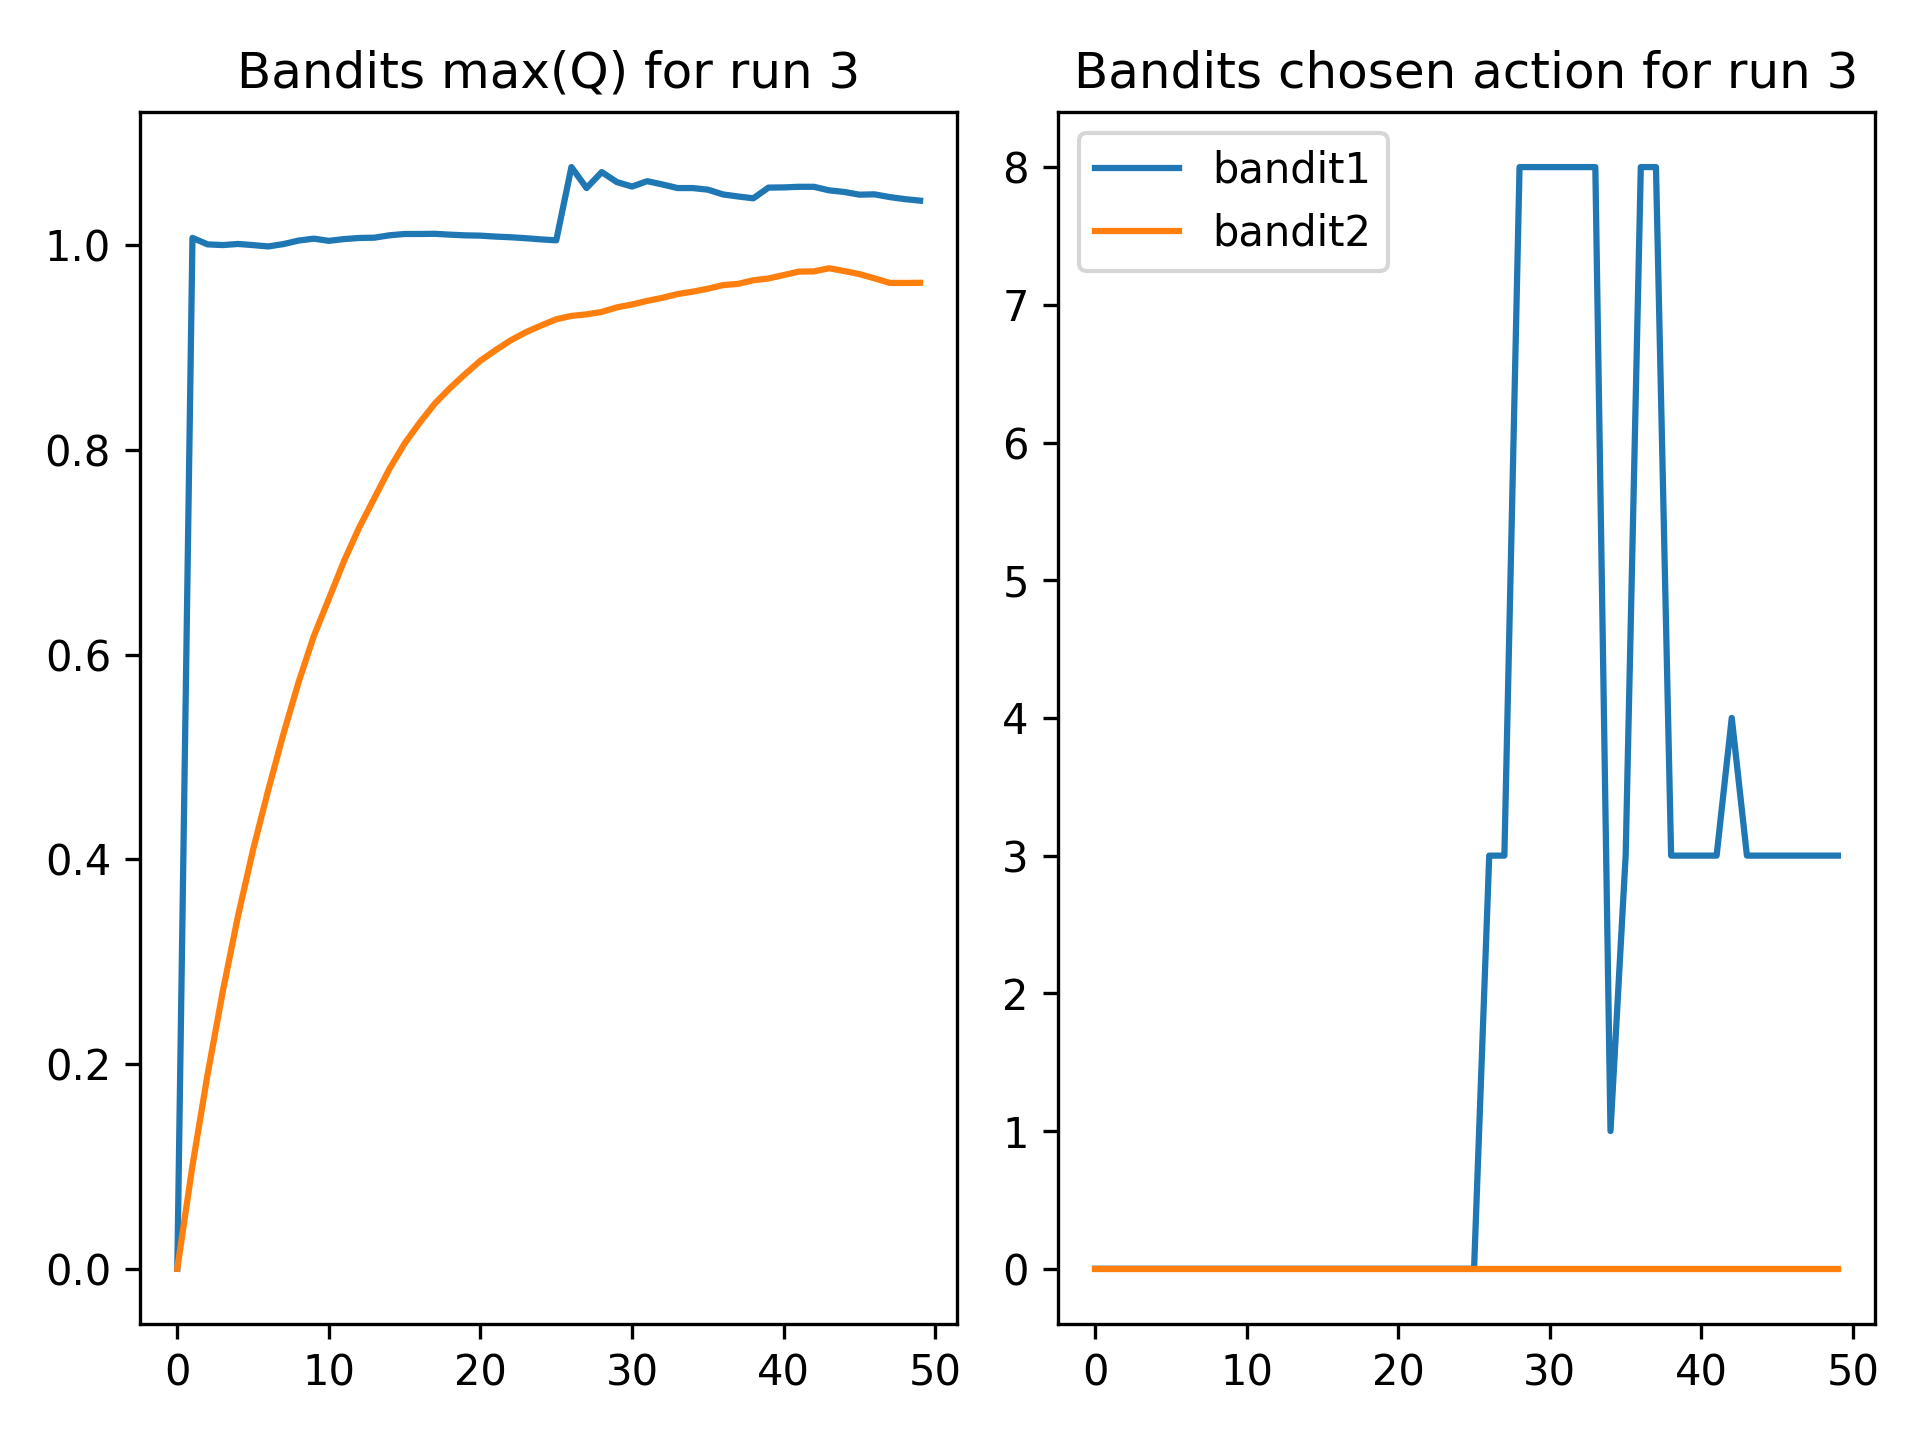
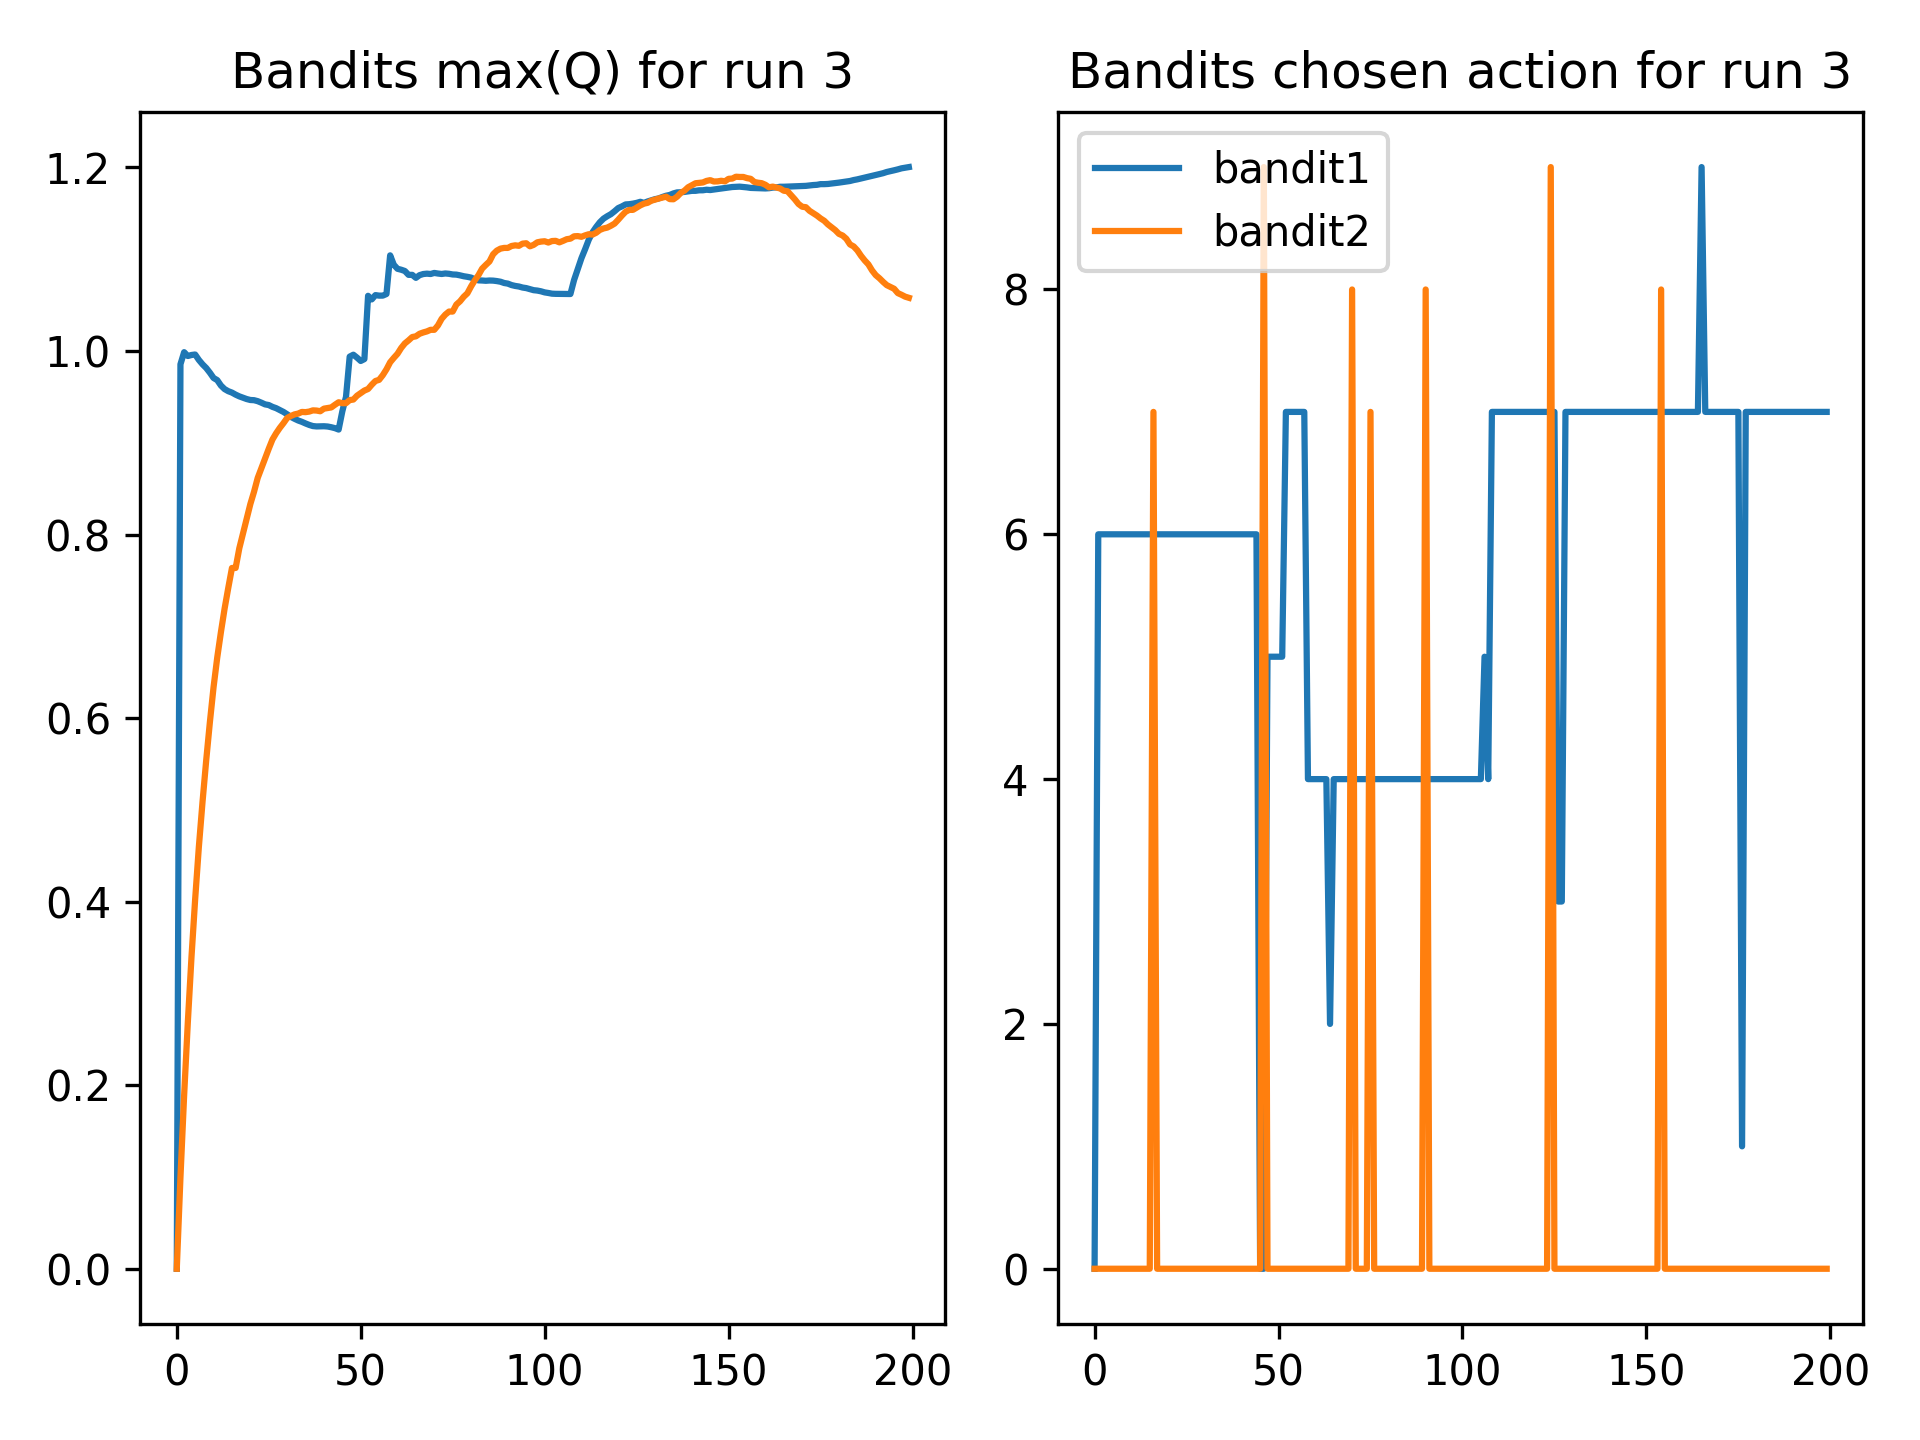
Fixed bandit2 not exploring, but Q_global_max plot is wrong

diff --git a/src/CS6900/exercise_2_5_try2.py b/src/CS6900/exercise_2_5_try2.py
@@ -31,7 +31,7 @@ class Bandits:
         self.N = np.zeros((n_arms, n_steps))
         self.rewards_received = np.zeros(n_steps)
         self.actions_taken = np.zeros(n_steps)
-        
+
         # These variables are going to save all the Q values across the number
         # of runs that we want. We are goind to shove Q into the page n_runs
         # once a run. Average all these pages together to get average Q and
@@ -147,10 +147,10 @@ at every time step.
 
 # CONSTANTS
 n_arms = 10
-n_steps = 50
+n_steps = 200
 n_runs = 5
 epsilon1 = .1
-epsilon2 = 0
+epsilon2 = .1
 alpha1 = 0
 alpha2 = .1
 
